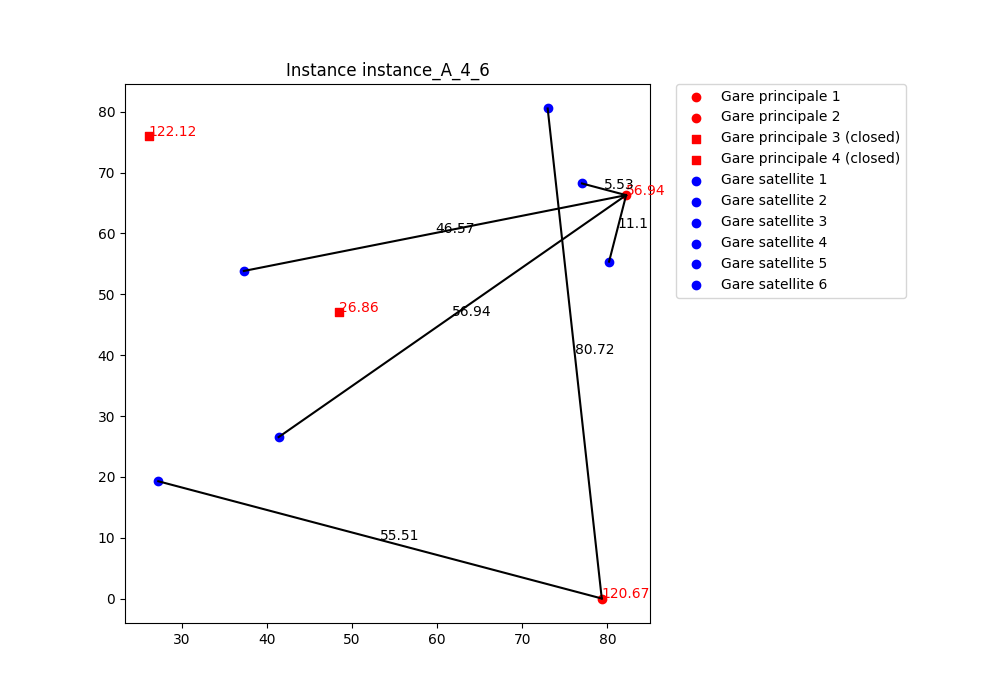
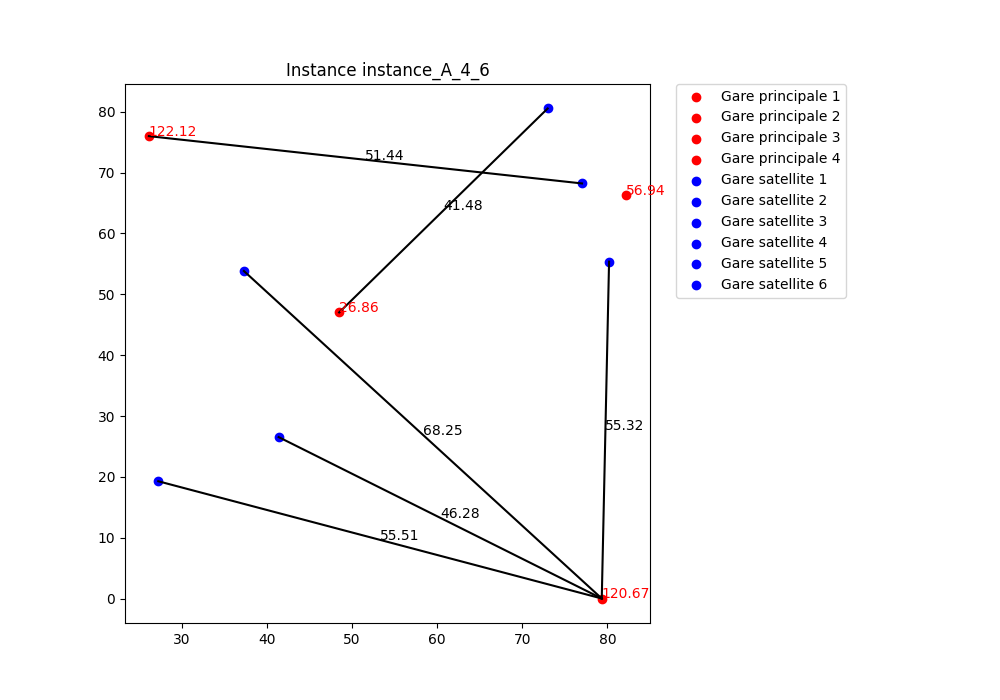
first implementation

diff --git a/RechercheLocale/solver.py b/RechercheLocale/solver.py
@@ -1,22 +1,81 @@
+import random
 from uflp import UFLP
 from typing import List, Tuple
+import math
 """ 
-    Binome 1 : Nom Prenom (Matricule)
-    Binome 2 : Nom Prenom (Matricule)
+    Binome 1 : El Shami Ahmed 2077075
+    Binome 2 : Hogues Sebastien 2087357
     Description succinte de l'implementation :
     ...
 """
 
+def combined_strategy(problem: UFLP, max_restarts: int, initial_temp: float, cooling_rate: float, min_temp: float) -> Tuple[List[int], List[int]]:
+    best_solution = None
+    best_cost = float('inf')
+    
+    for restart in range(max_restarts):
+        current_solution = initialize_solution(problem)
+        current_cost = problem.calculate_cost(*current_solution)
+        temp = initial_temp
+        
+        while temp > min_temp:
+            neighbors = get_neighbors(current_solution, problem)
+            neighbor = random.choice(neighbors)
+            neighbor_cost = problem.calculate_cost(*neighbor)
+            cost_diff = neighbor_cost - current_cost
+
+            if cost_diff < 0 or math.exp(-cost_diff / temp) > random.uniform(0, 1):
+                current_solution = neighbor
+                current_cost = neighbor_cost
+
+            temp *= cooling_rate
+
+        if current_cost < best_cost:
+            best_solution = current_solution
+            best_cost = current_cost
+
+    return best_solution
+
 def solve(problem: UFLP) -> Tuple[List[int], List[int]]:
-    """
-    Votre implementation, doit resoudre le probleme via recherche locale.
+    max_restarts = 10
+    initial_temp = 10000.0
+    cooling_rate = 0.95
+    min_temp = 1
 
-    Args:
-        problem (UFLP): L'instance du probleme à résoudre
+    return combined_strategy(problem, max_restarts, initial_temp, cooling_rate, min_temp)
 
-    Returns:
-        Tuple[List[int], List[int]]: 
-        La premiere valeur est une liste représentant les stations principales ouvertes au format [0, 1, 0] qui indique que seule la station 1 est ouverte
-        La seconde valeur est une liste représentant les associations des stations satellites au format [1 , 4] qui indique que la premiere station est associée à la station pricipale d'indice 1 et la deuxieme à celle d'indice 4
-    """
-    return None, None
+def initialize_solution(problem):
+    main_stations_opened = [0 for _ in range(problem.n_main_station)]
+    main_stations_opened[random.randint(0, problem.n_main_station - 1)] = 1
+
+    satellite_stations_association = [None for _ in range(problem.n_satellite_station)]
+    for sat in range(problem.n_satellite_station):
+        distances = [problem.get_association_cost(main, sat) if main_stations_opened[main] == 1 else float('inf') for main in range(problem.n_main_station)]
+        satellite_stations_association[sat] = distances.index(min(distances))
+
+    return main_stations_opened, satellite_stations_association
+
+def get_neighbors(current_solution: Tuple[List[int], List[int]], problem: UFLP) -> List[Tuple[List[int], List[int]]]:
+    neighbors = []
+    main_stations_opened, satellite_stations_association = current_solution
+
+    for sat in range(problem.n_satellite_station):
+        for main in range(problem.n_main_station):
+            if main_stations_opened[main] == 1: 
+                new_association = satellite_stations_association.copy()
+                new_association[sat] = main
+                neighbors.append((main_stations_opened.copy(), new_association))
+    
+    for i in range(problem.n_main_station):
+        new_main_stations = main_stations_opened.copy()
+        new_main_stations[i] = 1 - new_main_stations[i]  
+        if sum(new_main_stations) > 0:  
+            new_association = satellite_stations_association.copy()
+            if new_main_stations[i] == 0:
+                for sat in range(problem.n_satellite_station):
+                    if new_association[sat] == i:
+                        distances = [problem.get_association_cost(main, sat) if new_main_stations[main] == 1 else float('inf') for main in range(problem.n_main_station)]
+                        new_association[sat] = distances.index(min(distances))
+            neighbors.append((new_main_stations, new_association))
+    
+    return neighbors
